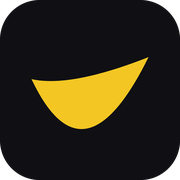
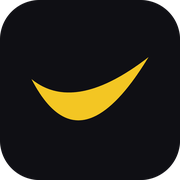
UI: Refine Date Masamune crescent moon curve to be elegant but visible

Changed region(s): [[0.1667, 0.3056, 0.8333, 0.7222]]

diff --git a/generate_icon.py b/generate_icon.py
@@ -11,8 +11,8 @@ def generate_masamune_icon():
 
     p0 = (717, 1800)
     p2 = (3379, 1300)
-    p1_out = (1900, 4300)
-    p1_in = (1600, 2000)
+    p1_out = (1800, 3900)
+    p1_in = (1700, 2600)
 
     points = []
     steps = 200
